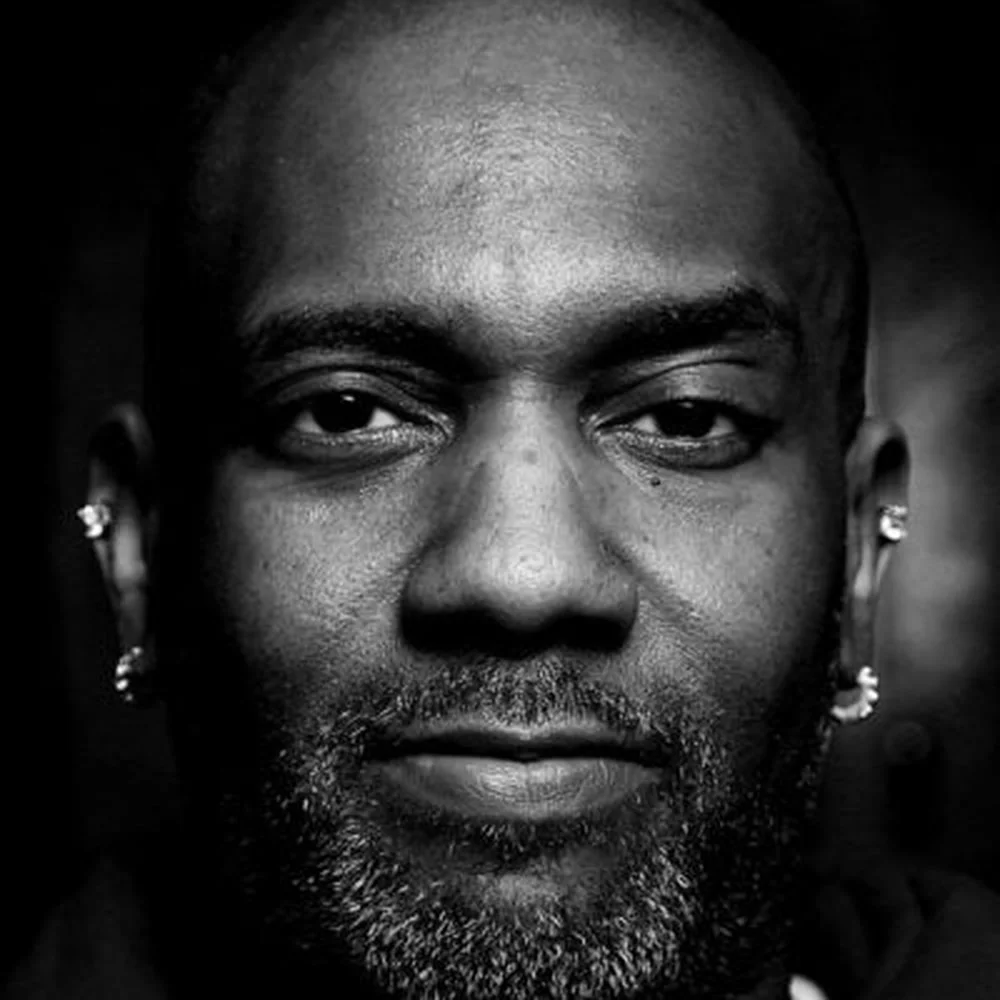
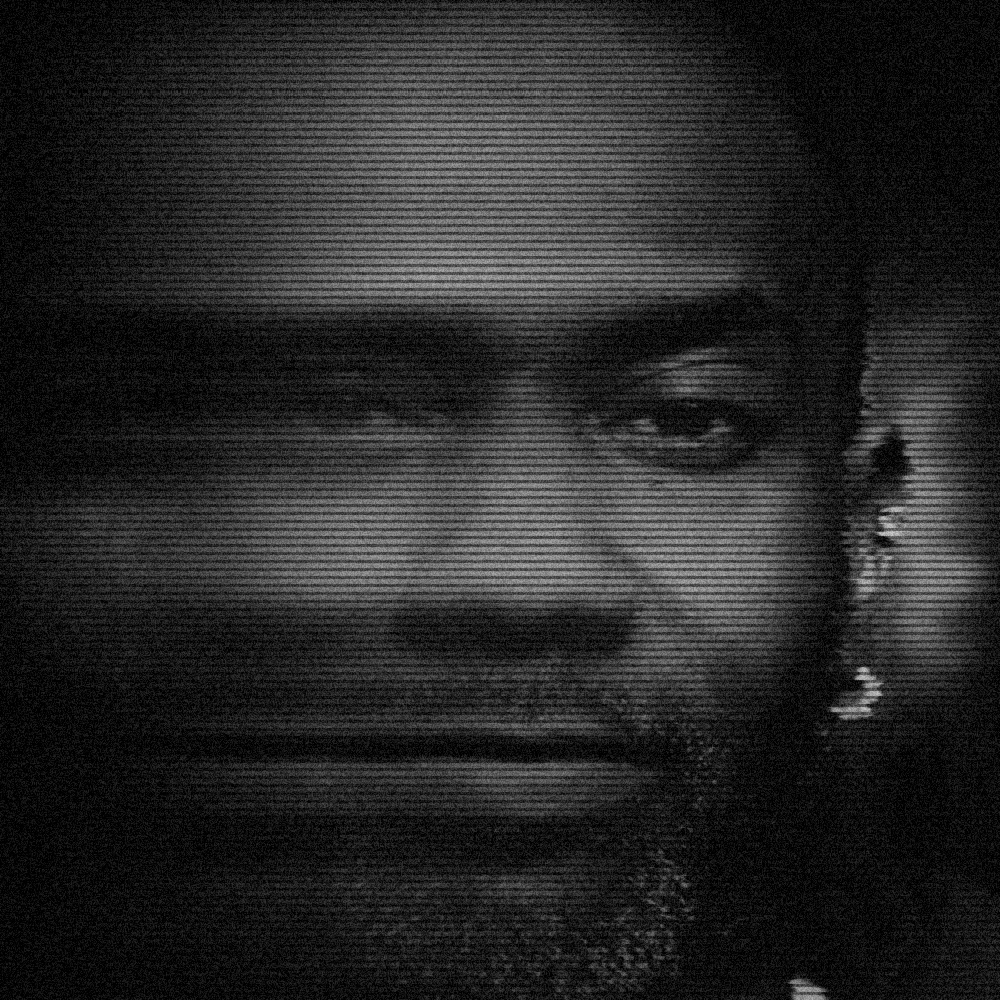
feat(site): artist portrait treatment; Paul Johnson treated; DJs page A-Z
- scripts/artist-portrait-treatment.sh: the house look for artist images
  (B&W, shadowy left trail, row jitter, 8px scanlines, heavy grain), tuned
  side by side against existing artist images. ARTIST_PORTRAITS.md: how to
  add any new artist's portrait with it, plus a photo-source table.
- Paul Johnson portrait re-rendered with the treatment.
- DJs page (residents.html) lists artists alphabetically by name.

Claude-Session: https://claude.ai/code/session_01PWtAhM9MkYBQfJQadkaEkN

diff --git a/ARTIST_PORTRAITS.md b/ARTIST_PORTRAITS.md
@@ -1,0 +1,29 @@
+# Artist portraits
+
+Every artist image on the site shares one look: high-contrast black and white, a shadowy
+horizontal trail extending to the left, CRT scanlines and heavy grain. New artists get the
+same treatment before they are added.
+
+## Adding an artist portrait
+
+1. Pick a photo where the artist's face is clear. Record its source.
+2. Frame it like the existing portraits: the face fills the square (ears near the edges,
+   top of the head cropped). Pass the crop as `w:h:x:y` in source pixels.
+3. Run the treatment:
+   ```
+   scripts/artist-portrait-treatment.sh <photo> website/img/about/<slug>/portrait.webp <w:h:x:y>
+   ```
+4. Set the artist's `artistImageFilename` in Firestore `system/artists` to
+   `img/about/<slug>/portrait.webp`, commit the WebP, merge, and deploy the site.
+5. Check the DJs page and the artist page next to two existing artists.
+
+Tuning: `CURVE` (tone), `SM` (trail length) and `SH` (trail shift). The defaults are tuned on
+a low-key photo (dark background); a bright photo may need a darker `CURVE` (see the script).
+
+The DJs page lists artists alphabetically by name.
+
+## Sources
+
+| Artist | Photo source | Rights |
+|---|---|---|
+| PAUL JOHNSON | XLR8R, 2021 (`E7-Gde0WQAc3lj1-2-1024x683.jpeg`) | owner's pick; press photo, not licensed |
